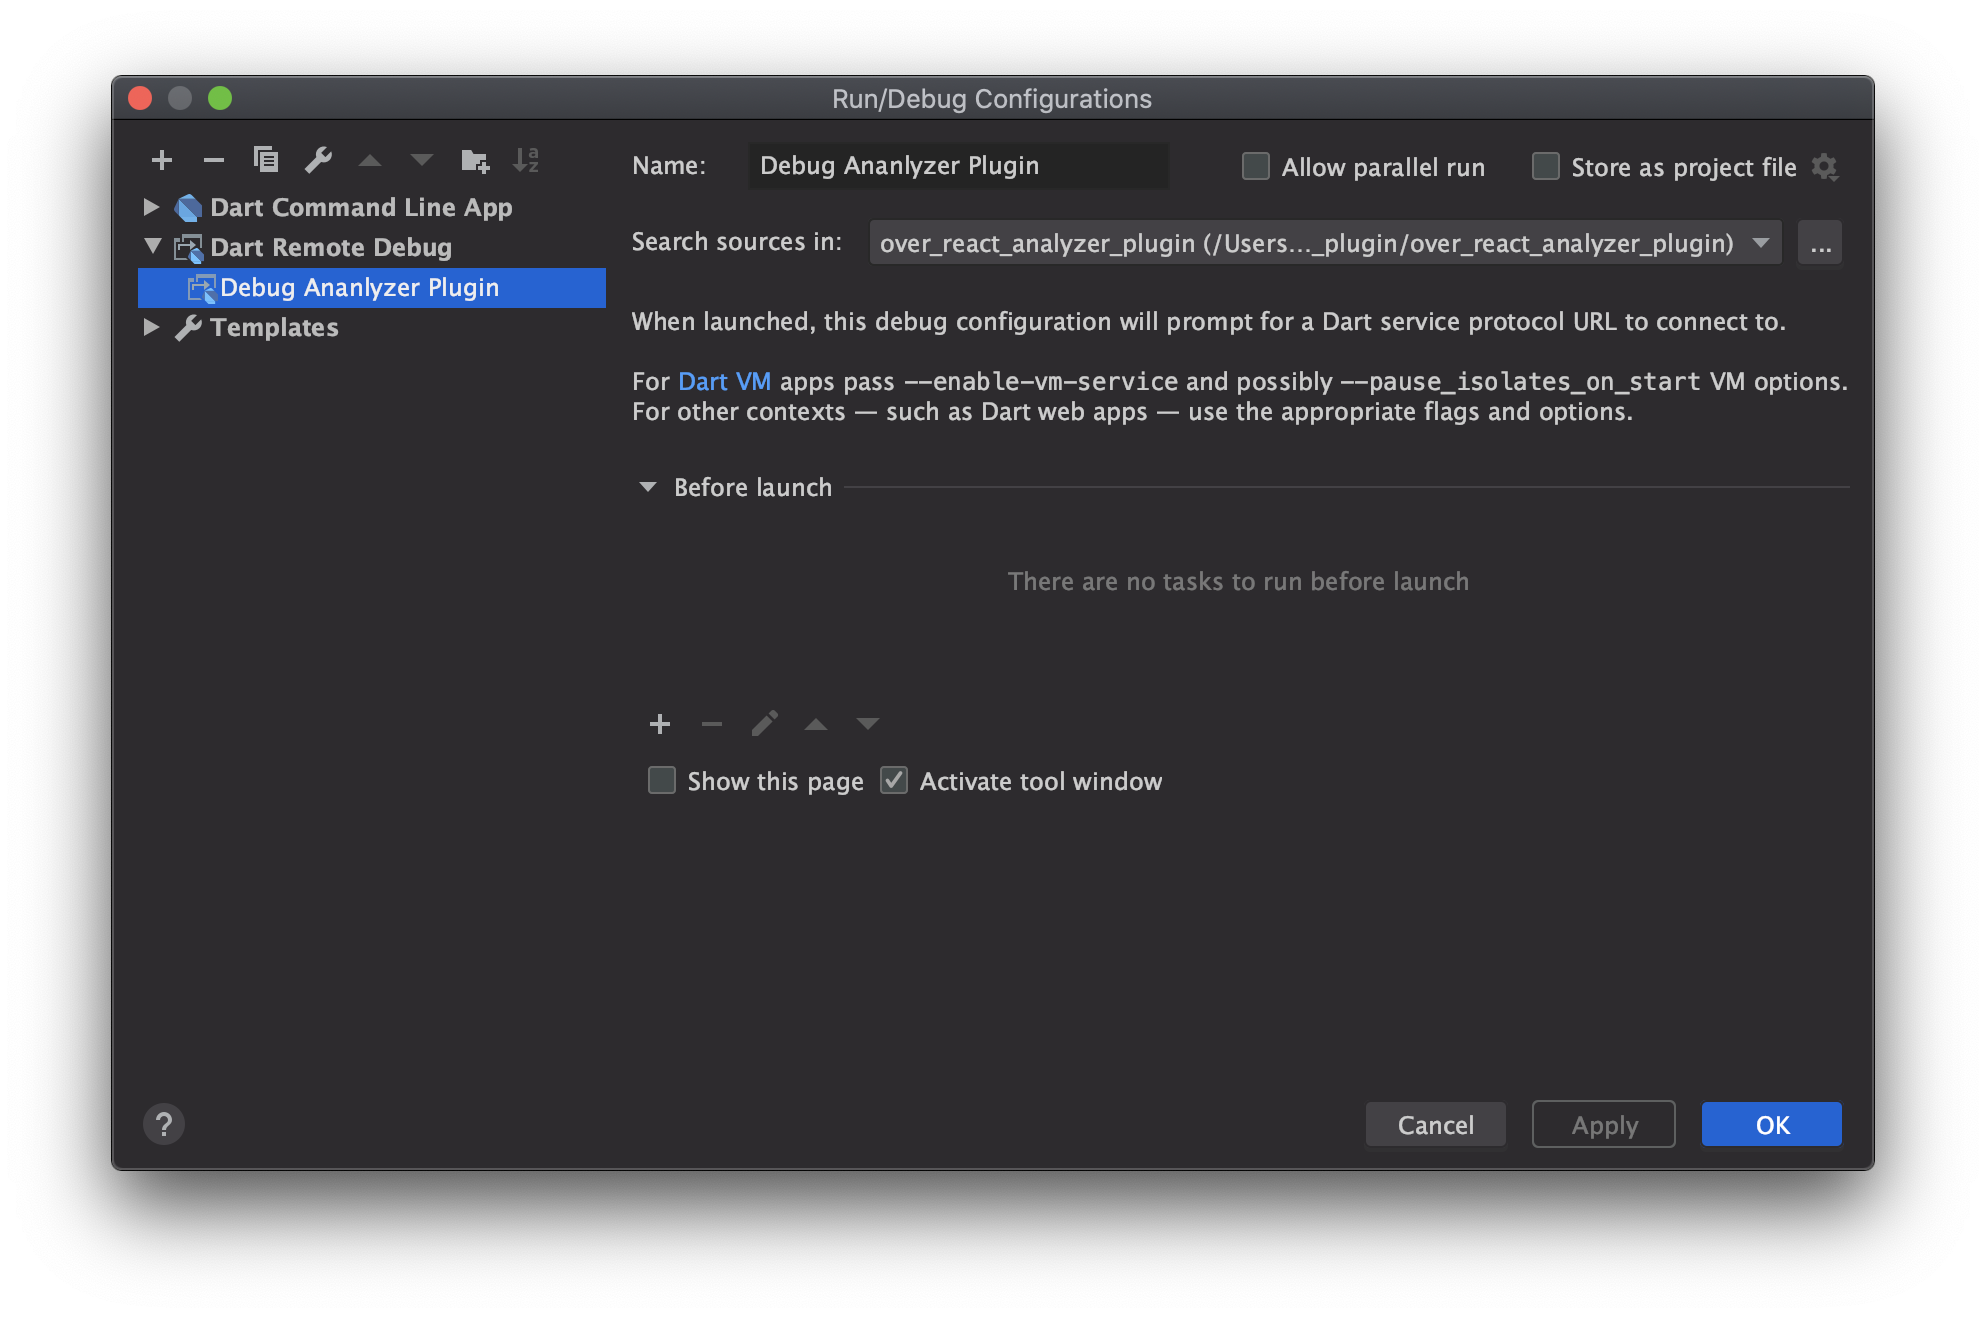
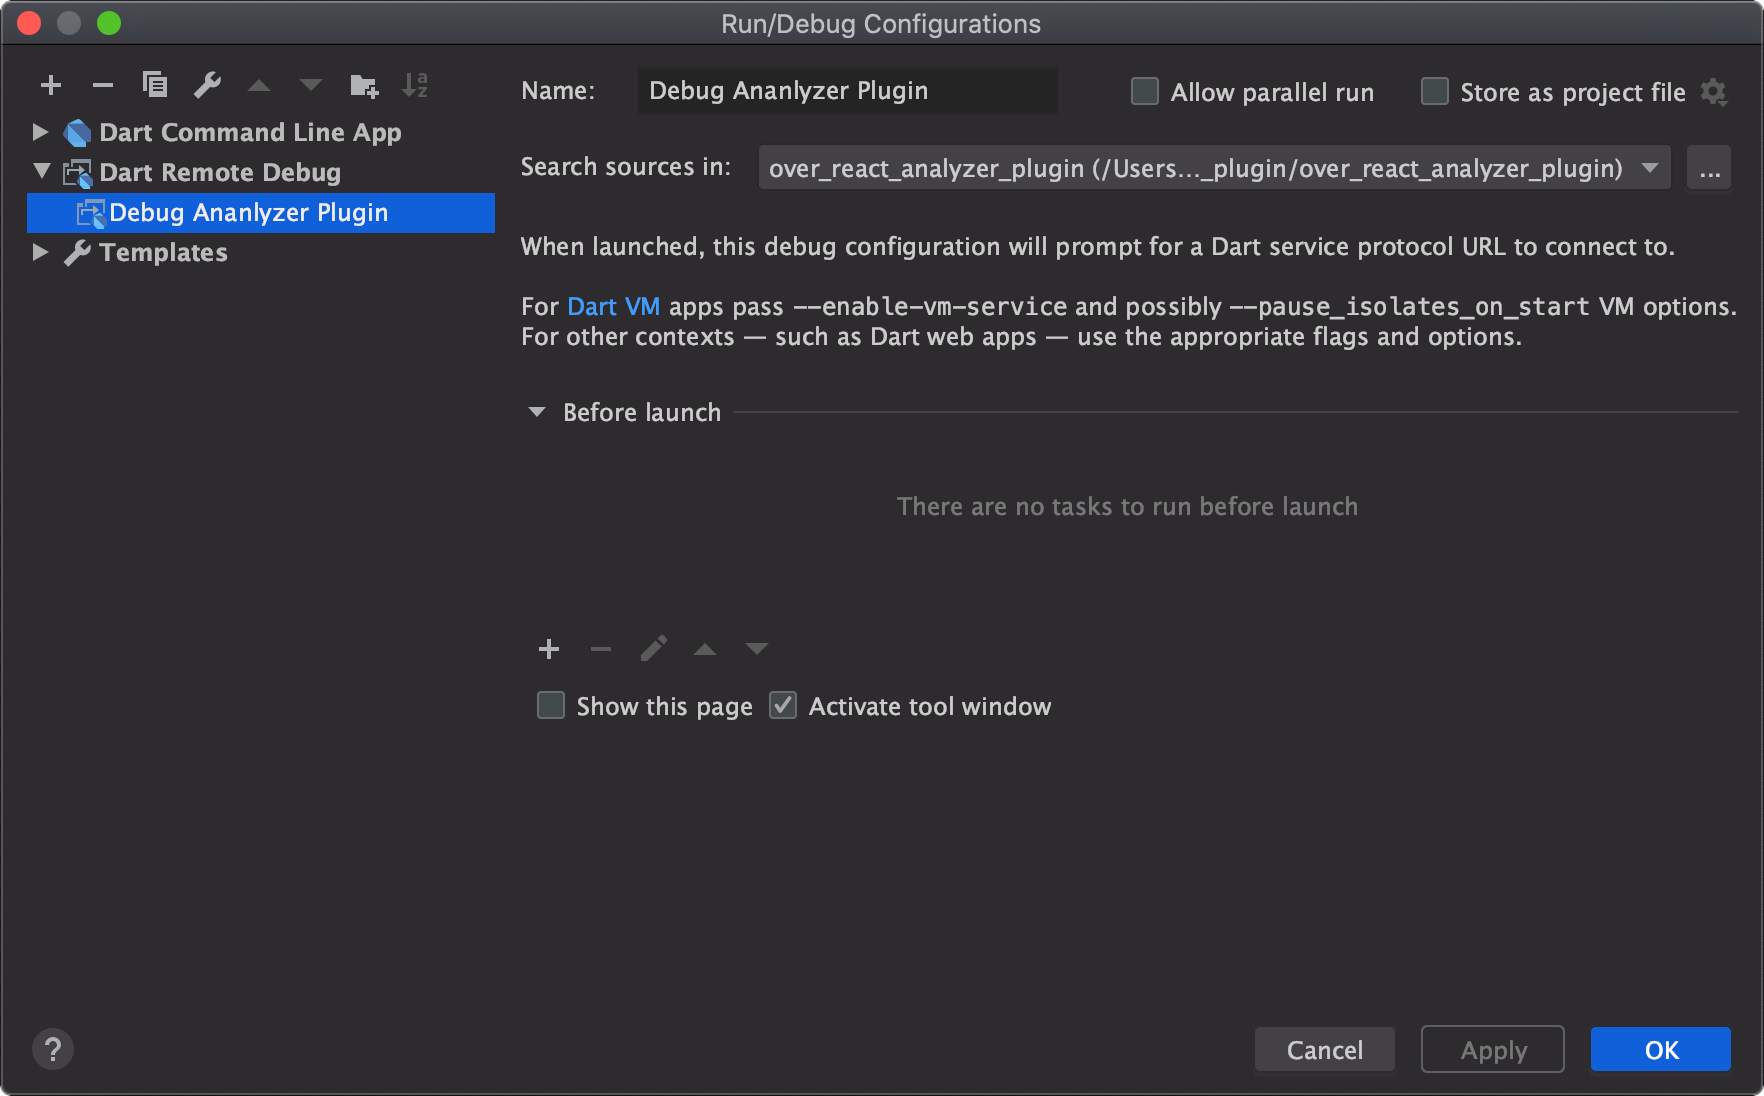
Crop screenshots so they lay out better

diff --git a/tools/analyzer_plugin/README.md b/tools/analyzer_plugin/README.md
@@ -98,7 +98,7 @@ Before starting, ensure you have the `analyzer_plugin` open as its own project (
     
 1. Ensure the "Search sources in" section is pointing to the plugin package directory. Save your new Configuration. We'll come back to it later.
     
-    <img src="doc/create-configuration-3.png" alt="doc/create-configuration-3.png" width="993">
+    <img src="doc/create-configuration-3.png" alt="doc/create-configuration-3.png" width="882">
 
 1. Open the "Registry" using the command palette (<kbd>Command</kbd>+<kbd>Shift</kbd>+<kbd>A</kbd>)
 
@@ -106,7 +106,7 @@ Before starting, ensure you have the `analyzer_plugin` open as its own project (
     
 1. Find the `dart.server.vm.options` key and set the value to `--observe=0` (allows access to the Observatory on a random, non-allocated port)
 
-    <img src="doc/edit-jetbrains-registry.png" alt="doc/edit-jetbrains-registry.png" width="965">
+    <img src="doc/edit-jetbrains-registry.png" alt="doc/edit-jetbrains-registry.png" width="854">
             
 1. Next, we need to open the analyzer diagnostics to find the URL for our debugger. Open the Dart Analysis Server Settings, and click `View analyzer diagnostics`. This will open your browser.
 
@@ -122,11 +122,11 @@ Before starting, ensure you have the `analyzer_plugin` open as its own project (
     
 1. Finally, when prompted, paste the URL you just copied and click `OK`.
 
-    <img src="doc/run-configuration-2.png" alt=doc/run-configuration-2.png width="518">
+    <img src="doc/run-configuration-2.png" alt=doc/run-configuration-2.png width="407">
 
 1. In the debugger tab that was opened, verify that the debugger connected.
     
-    <img src="doc/verify-connected.png" alt="doc/verify-connected.png" width="938">
+    <img src="doc/verify-connected.png" alt="doc/verify-connected.png" width="731">
     
 Congrats, you're debugging! 🎉
 
